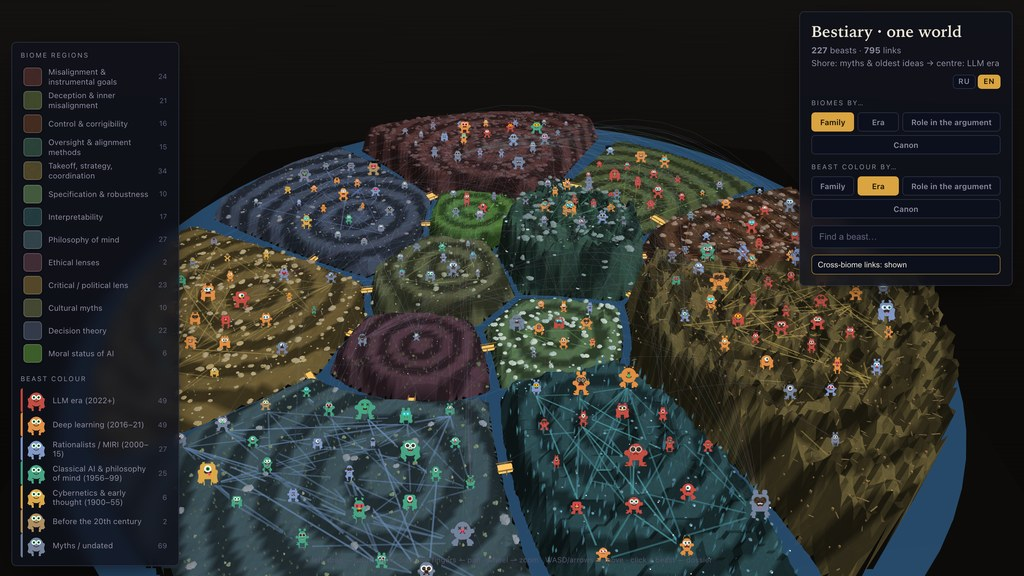
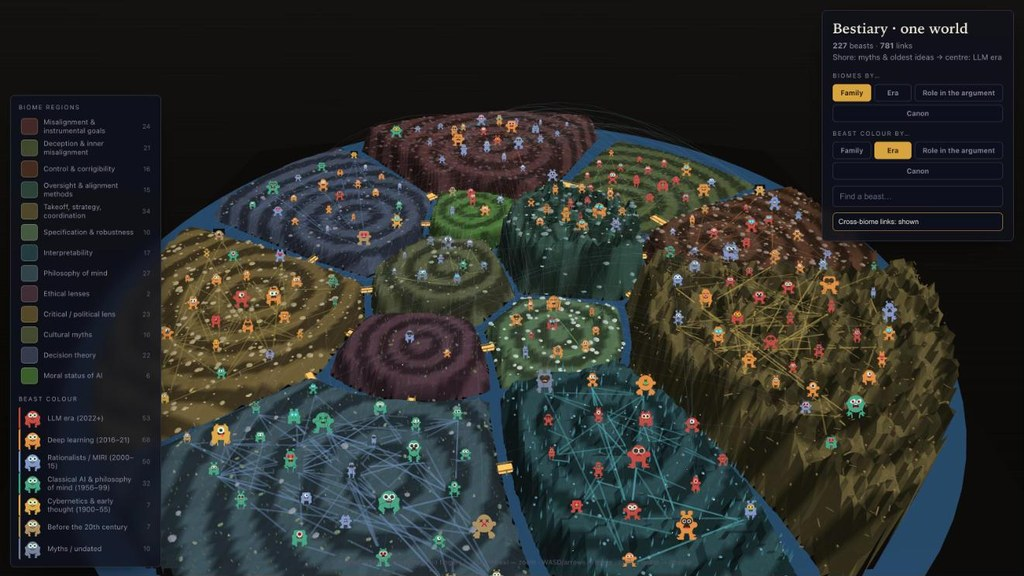
Release from ai-safety-concepts_private@6aa1bf2: Read in wiki links in the interactives; English map and wiki previews; site/ released from the private repository

Changed region(s): [[0.0, 0.0625, 0.75, 1.0], [0.2188, 0.0312, 1.0, 0.7812], [0.6875, 0.9688, 0.7188, 1.0]]

diff --git a/bestiary-interactives.html b/bestiary-interactives.html
@@ -42,6 +42,8 @@ a{color:#efeae2;text-decoration:none;} a:hover{color:#d8a24a;}
       <div style="display:flex;align-items:center;gap:12px;flex-wrap:wrap;">
         <span style="font:700 11px 'JetBrains Mono',monospace;letter-spacing:.12em;text-transform:uppercase;color:#7d776f;">Selected</span>
         <span style="display:flex;gap:6px;align-items:center;height:32px;padding:0 11px;background:#d8a24a;color:#0c0b0a;font:700 13px 'Onest',sans-serif;">{{ wHead.name }}<span style="opacity:.6;font-weight:500;">{{ wHead.n }}</span></span>
+        <!-- ADDED 2026-11-09: the way from the selected beast to its full text -->
+        <a href="{{ wiki }}" target="_blank" style="display:flex;align-items:center;height:32px;padding:0 12px;border:1px solid #d8a24a;color:#d8a24a;text-decoration:none;font:700 11px 'JetBrains Mono',monospace;letter-spacing:.1em;text-transform:uppercase;white-space:nowrap;" style-hover="background:#d8a24a;color:#0c0b0a;">Read in wiki →</a>
         <div style="display:flex;align-items:center;gap:8px;border:1px solid #3a3531;background:#0f0e0c;padding:0 10px;height:32px;width:260px;box-sizing:border-box;">
           <span style="color:#7d776f;font-size:13px;">⌕</span>
           <input value="{{ wQ }}" onInput="{{ wOnQ }}" onKeyDown="{{ wKey }}" placeholder="Highlight in the bestiary…" style="flex:1;min-width:0;background:transparent;border:0;outline:none;color:#efeae2;font:500 13px 'Onest',sans-serif;">
@@ -97,6 +99,8 @@ a{color:#efeae2;text-decoration:none;} a:hover{color:#d8a24a;}
         <sc-for list="{{ zPicks }}" as="p" hint-placeholder-count="6"><button onClick="{{ p.go }}" style="cursor:pointer;background:{{ p.bg }};color:{{ p.fg }};border:1px solid {{ p.bd }};padding:6px 10px;font:500 12px 'Onest',sans-serif;" style-hover="border-color:#efeae2;">{{ p.name }}</button></sc-for>
         <span style="font:700 11px 'JetBrains Mono',monospace;letter-spacing:.12em;text-transform:uppercase;color:#7d776f;padding:0 6px 0 10px;">Alongside · {{ zAlN }}</span>
         <sc-for list="{{ zAl }}" as="p" hint-placeholder-count="8"><button onClick="{{ p.go }}" style="cursor:pointer;background:{{ p.bg }};color:{{ p.fg }};border:1px solid {{ p.bd }};padding:6px 10px;font:500 12px 'Onest',sans-serif;" style-hover="border-color:#efeae2;">{{ p.name }}</button></sc-for>
+        <!-- ADDED 2026-11-09: the followed beast's full text -->
+        <a href="{{ zWiki.href }}" target="_blank" style="display:flex;margin-left:auto;align-items:center;height:32px;padding:0 12px;border:1px solid #d8a24a;color:#d8a24a;text-decoration:none;font:700 11px 'JetBrains Mono',monospace;letter-spacing:.1em;text-transform:uppercase;white-space:nowrap;" style-hover="background:#d8a24a;color:#0c0b0a;">Read {{ zWiki.name }} in wiki →</a>
       </div>
       <!-- CHANGED 2026-11-02: the canvas is laid out in fixed coordinates, so it stays 1136 wide and sits in the middle of the stretched block -->
       <div style="position:relative;width:1136px;height:600px;overflow:hidden;background:#0f0e0c;align-self:center;">
@@ -250,6 +254,8 @@ a{color:#efeae2;text-decoration:none;} a:hover{color:#d8a24a;}
         </div>
         <sc-for list="{{ fChips }}" as="c" hint-placeholder-count="5"><button onClick="{{ c.go }}" style="cursor:pointer;display:flex;gap:5px;align-items:center;height:32px;padding:0 11px;border:1px solid {{ c.bd }};background:{{ c.bg }};color:{{ c.fg }};font:500 13px 'Onest',sans-serif;" style-hover="border-color:#efeae2;">{{ c.name }}<span style="color:{{ c.nc }};">{{ c.n }}</span></button></sc-for>
         <button onClick="{{ fPToggle }}" style="cursor:pointer;display:flex;gap:6px;align-items:center;height:32px;padding:0 12px;background:transparent;border:1px dashed #d8a24a;color:#d8a24a;font:700 11px 'JetBrains Mono',monospace;letter-spacing:.1em;text-transform:uppercase;" style-hover="border-style:solid;">All {{ total }} {{ fPCaret }}</button>
+        <!-- ADDED 2026-11-09: the root beast's full text -->
+        <a href="{{ wiki }}" target="_blank" style="display:flex;align-items:center;height:32px;padding:0 12px;border:1px solid #d8a24a;color:#d8a24a;text-decoration:none;font:700 11px 'JetBrains Mono',monospace;letter-spacing:.1em;text-transform:uppercase;white-space:nowrap;" style-hover="background:#d8a24a;color:#0c0b0a;">Read {{ wHead.name }} in wiki →</a>
         <sc-if value="{{ fPIsOpen }}" hint-placeholder-val="{{ false }}">
           <div style="position:absolute;top:calc(100% + 8px);left:0;right:0;z-index:10;background:#151311;border:1px solid #3a3531;box-shadow:0 18px 40px rgba(0,0,0,.6);display:flex;flex-direction:column;">
             <div style="display:flex;justify-content:space-between;align-items:center;gap:12px;padding:10px 14px;border-bottom:1px solid #26231f;font:400 12px 'Onest',sans-serif;color:#9a948b;">
@@ -493,7 +499,7 @@ class Component extends DCLogic {
     const fChips = st.recent.map(m => { const on = m === id; return { name: by[m].name, n: String(tot(m)), go: () => this.pick(m), bd: on ? '#d8a24a' : '#3a3531', bg: on ? '#d8a24a' : 'transparent', fg: on ? '#0c0b0a' : '#efeae2', nc: on ? 'rgba(12,11,10,.6)' : '#8a8273' }; });
     const enter = list => e => { if (e.key === 'Enter' && list.length) this.pick(list[0].id); };
     return { total: String(N), gTabs, gHint: g.hint, gW: `${st.W}px`, gWn: String(st.W),
-      wHead: { name: fc.name, n: `←${nb.up} ${nb.down}→` }, wQ: st.wQ, wOnQ: e => this.setState({ wQ: e.target.value }), wKey: enter(wM), wInfo,
+      wHead: { name: fc.name, n: `←${nb.up} ${nb.down}→` }, wiki: '/bestiarium/wiki#/n/' + id, /* ADDED 2026-11-09 */ wQ: st.wQ, wOnQ: e => this.setState({ wQ: e.target.value }), wKey: enter(wM), wInfo,
       wCols: g.labels.map((l, k) => ({ label: l, n: String(g.C[k].length), hc: g.color(k), items: g.C[k].map(m => wItem(m, k)) })), wEdges, wGrid: `repeat(${g.n}, ${CW}px)`, wH: `${wHn}px`, wHn: String(wHn),
       wUnOn: g.un.length > 0, wUnTitle: `No ${g.kind} links of their own · ${g.un.length} · pick one to grow the nearest ${g.kind} chain, one link away`, wUn: g.un.map(m => wItem(m, -1)),
       fName: fc.name, fInfo, fTldr: fc.tldr, fCapC: R[fc.role][1], fEmpty: !total, fEmptyText, fTree: total > 0, fNodes, fEdges, fH: `${fHn}px`, fHn: String(fHn),
@@ -607,7 +613,9 @@ class Component extends DCLogic {
     ][lvl];
     const zMaps = L0.map((r, i) => ({ label: r.l, n: String(r.n), go: () => { this.auto.z = 0; this.setState({ zM: i, zPlay: false, zIs: null, zL: Math.max(1, lvl) }); }, bg: i === mi ? '#d8a24a' : 'transparent', fg: i === mi ? '#0c0b0a' : '#9a948b', bd: '' }));
     const zMapNote = st.zM != null ? 'your pick' : lvl === 1 ? 'cycling through all six, landing on this beast’s layer' : 'cycles on the Layer step';
-    return { zMaps, zMapNote, zTabs, zPicks, zAl, zAlN, zL0: LS(0), zL1: LS(1), zL2: LS(2), zL3: LS(3), zL4: LS(4), z0Rows, z0Tiles, z0Threads, z0Labels, z1Isl, z1Roads, z1Tiles, z1Labels, z2Cards, z2Links, z3L, z3R, z3A, z3, z4, zCap: capt[0], zSub: capt[1],
+    // ADDED 2026-11-09: the followed beast's wiki page
+    const zWiki = { href: '/bestiarium/wiki#/n/' + fid, name: fn.name };
+    return { zWiki, zMaps, zMapNote, zTabs, zPicks, zAl, zAlN, zL0: LS(0), zL1: LS(1), zL2: LS(2), zL3: LS(3), zL4: LS(4), z0Rows, z0Tiles, z0Threads, z0Labels, z1Isl, z1Roads, z1Tiles, z1Labels, z2Cards, z2Links, z3L, z3R, z3A, z3, z4, zCap: capt[0], zSub: capt[1],
       zPlayLabel: st.zPlay === false ? '▶ Play' : 'Ⅱ Pause', zToggle: () => { this.auto.z = 0; this.setState({ zPlay: st.zPlay === false }); this.zRestart(); },
       zPrev: () => { const n = (lvl + 4) % 5; this.auto.z = 0; this.auto.zc = 0; this.setState({ zL: n, zPlay: false, zCyc: n === 1 ? 0 : null }); }, zNext: () => { const n = (lvl + 1) % 5; this.auto.z = 0; this.auto.zc = 0; this.setState({ zL: n, zPlay: false, zCyc: n === 1 ? 0 : null }); },
       zIn: () => this.setState({ zHover: true }), zLeave: () => { this.auto.z = 0; this.setState({ zHover: false, zH: null, zIs: null, zC: null, zP: null }); this.zRestart(); } };
@@ -630,8 +638,8 @@ class Component extends DCLogic {
   renderVals() {
     const st = this.state, D = st.data, F = Component.FAM, R = Component.ROLE;
     // CHANGED 2026-10-27: the values of the removed views (2b, 2c and the unused 2d, 3a–3e) are gone; the genealogy blocks come from genVals
-    const empty = { side4a: false, hasSide: false, side: { href: '#', c: '#3a3531', role: '', img: '', name: '', meta: '', tldr: '', author: '', stats: [], inc: [], out: [], nin: '', nout: '' }, closeSide: () => {}, zMaps: [], zMapNote: '', zTabs: [], zPicks: [], zAl: [], zAlN: '0', zL0: { o: '0', s: '1', p: 'none' }, zL1: { o: '0', s: '1', p: 'none' }, zL2: { o: '0', s: '1', p: 'none' }, zL3: { o: '0', s: '1', p: 'none' }, zL4: { o: '0', s: '1', p: 'none' }, z0Rows: [], z0Tiles: [], z0Threads: [], z0Labels: [], z1Isl: [], z1Roads: [], z1Tiles: [], z1Labels: [], z2Cards: [], z2Links: [], z3L: [], z3R: [], z3A: [], z3: { img: '', name: '', c: '#3a3531', nin: '', nout: '', nal: '', alOn: false, top: '190px', h: '220px' }, z4: { img: '', name: '', meta: '', tldr: '', c: '#3a3531', stats: [], pos: [], neg: [], npos: '', nneg: '', posNone: false, negNone: false, verdict: '' }, zCap: '', zSub: '', zPlayLabel: 'Ⅱ Pause', zToggle: () => {}, zPrev: () => {}, zNext: () => {}, zIn: () => {}, zLeave: () => {},
-      gTabs: [], gW: '1136px', gWn: '1136', wCols: [], wEdges: [], wUn: [], wH: '0px', wHn: '0', wHead: { name: '', n: '' }, wUnOn: false, fNodes: [], fEdges: [], fHeads: [], fChips: [], pCols: [], fH: '0px', fHn: '0', fEmpty: false, fTree: false, fPIsOpen: false, fCapC: '#3a3531', fPlayLabel: 'Ⅱ Pause' };
+    const empty = { side4a: false, hasSide: false, side: { href: '#', c: '#3a3531', role: '', img: '', name: '', meta: '', tldr: '', author: '', stats: [], inc: [], out: [], nin: '', nout: '' }, closeSide: () => {}, zWiki: { href: '#', name: '' }, zMaps: [], zMapNote: '', zTabs: [], zPicks: [], zAl: [], zAlN: '0', zL0: { o: '0', s: '1', p: 'none' }, zL1: { o: '0', s: '1', p: 'none' }, zL2: { o: '0', s: '1', p: 'none' }, zL3: { o: '0', s: '1', p: 'none' }, zL4: { o: '0', s: '1', p: 'none' }, z0Rows: [], z0Tiles: [], z0Threads: [], z0Labels: [], z1Isl: [], z1Roads: [], z1Tiles: [], z1Labels: [], z2Cards: [], z2Links: [], z3L: [], z3R: [], z3A: [], z3: { img: '', name: '', c: '#3a3531', nin: '', nout: '', nal: '', alOn: false, top: '190px', h: '220px' }, z4: { img: '', name: '', meta: '', tldr: '', c: '#3a3531', stats: [], pos: [], neg: [], npos: '', nneg: '', posNone: false, negNone: false, verdict: '' }, zCap: '', zSub: '', zPlayLabel: 'Ⅱ Pause', zToggle: () => {}, zPrev: () => {}, zNext: () => {}, zIn: () => {}, zLeave: () => {},
+      gTabs: [], gW: '1136px', gWn: '1136', wCols: [], wEdges: [], wUn: [], wH: '0px', wHn: '0', wHead: { name: '', n: '' }, wiki: '#', wUnOn: false, fNodes: [], fEdges: [], fHeads: [], fChips: [], pCols: [], fH: '0px', fHn: '0', fEmpty: false, fTree: false, fPIsOpen: false, fCapC: '#3a3531', fPlayLabel: 'Ⅱ Pause' };
     if (!D) return empty;
     const meta = n => `${R[n.role][0]} · ${F[n.fam][0]} · ${Component.ERAS[this.eraI(n.era)][1]}`;
     return { ...empty, ...this.zoomVals(D, meta), ...this.sideVals(meta), ...this.genVals() };

diff --git a/site/README.md b/site/README.md
@@ -4,6 +4,7 @@ What https://mrswallbreakermaps.com takes from this repository, and nothing else
 
 `files` in `site.json` maps each path the site serves for the Bestiary to a path in this
 repository; an entry ending in `/` copies that whole folder. The site pins this repository by
-commit and copies exactly the listed files at that commit. The two previews are the card images
-on the site's home page. On the site the Bestiary is shown to signed-in admins only, with its
-own cards, so `site.json` carries no card text of its own beyond the title.
+commit and copies exactly the listed files at that commit. The three previews are the card images
+on the site's home page. Since 9 November 2026 the site shows the Bestiary to everyone, with its
+own cards, so `site.json` carries no card text of its own beyond the title. This folder is released
+from `ai-safety-concepts_private`, where the same `site/` folder is the source.
